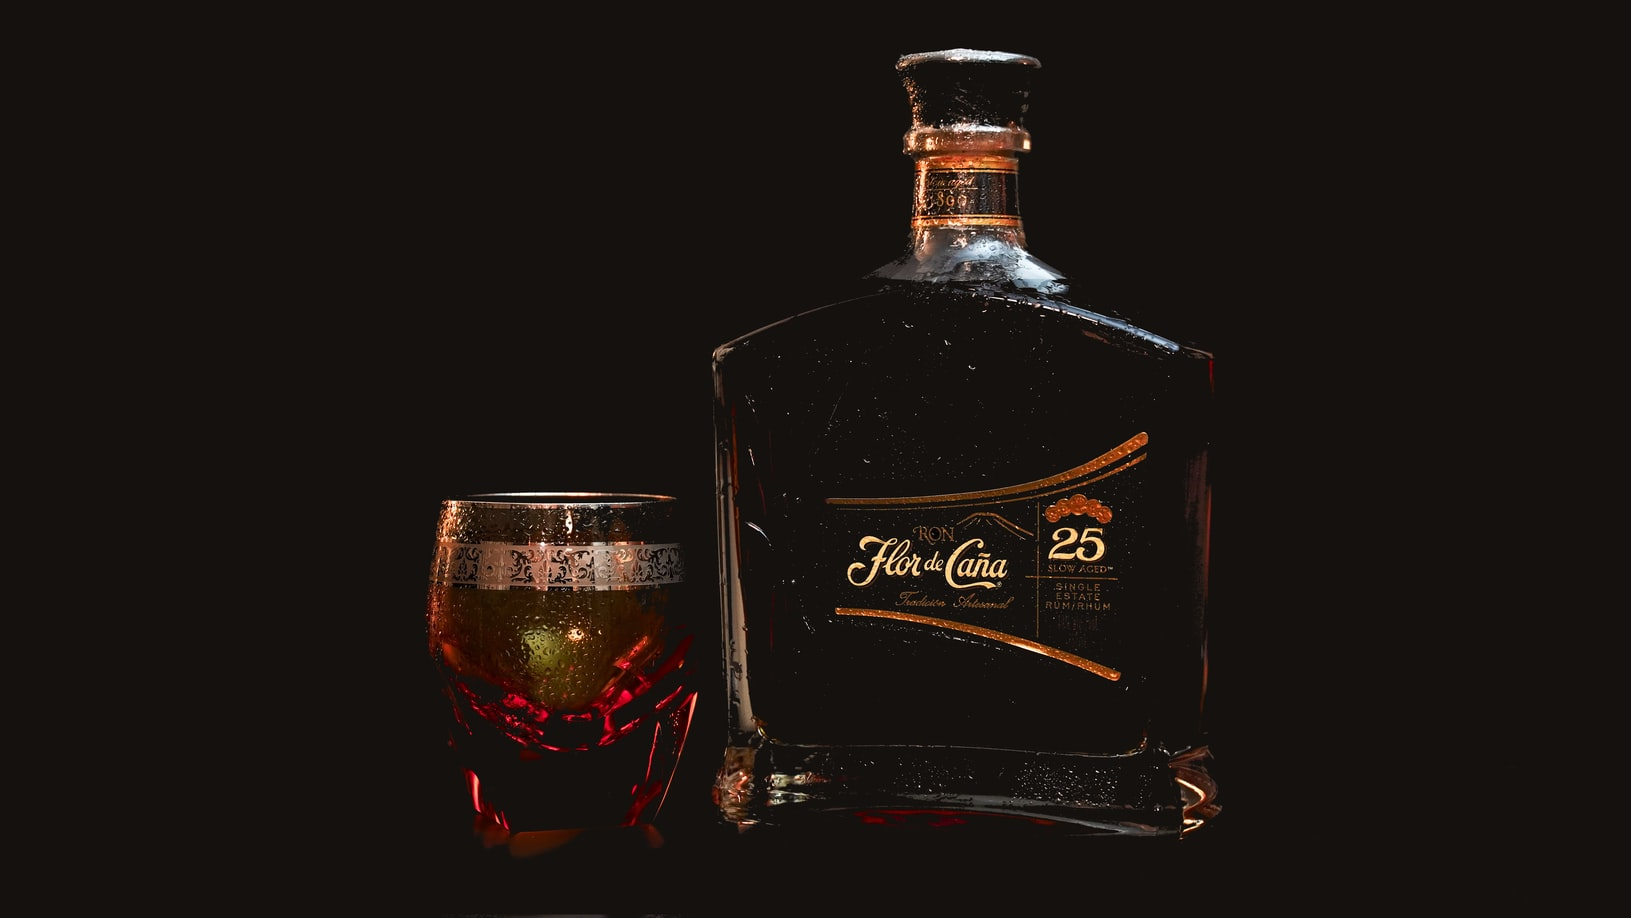
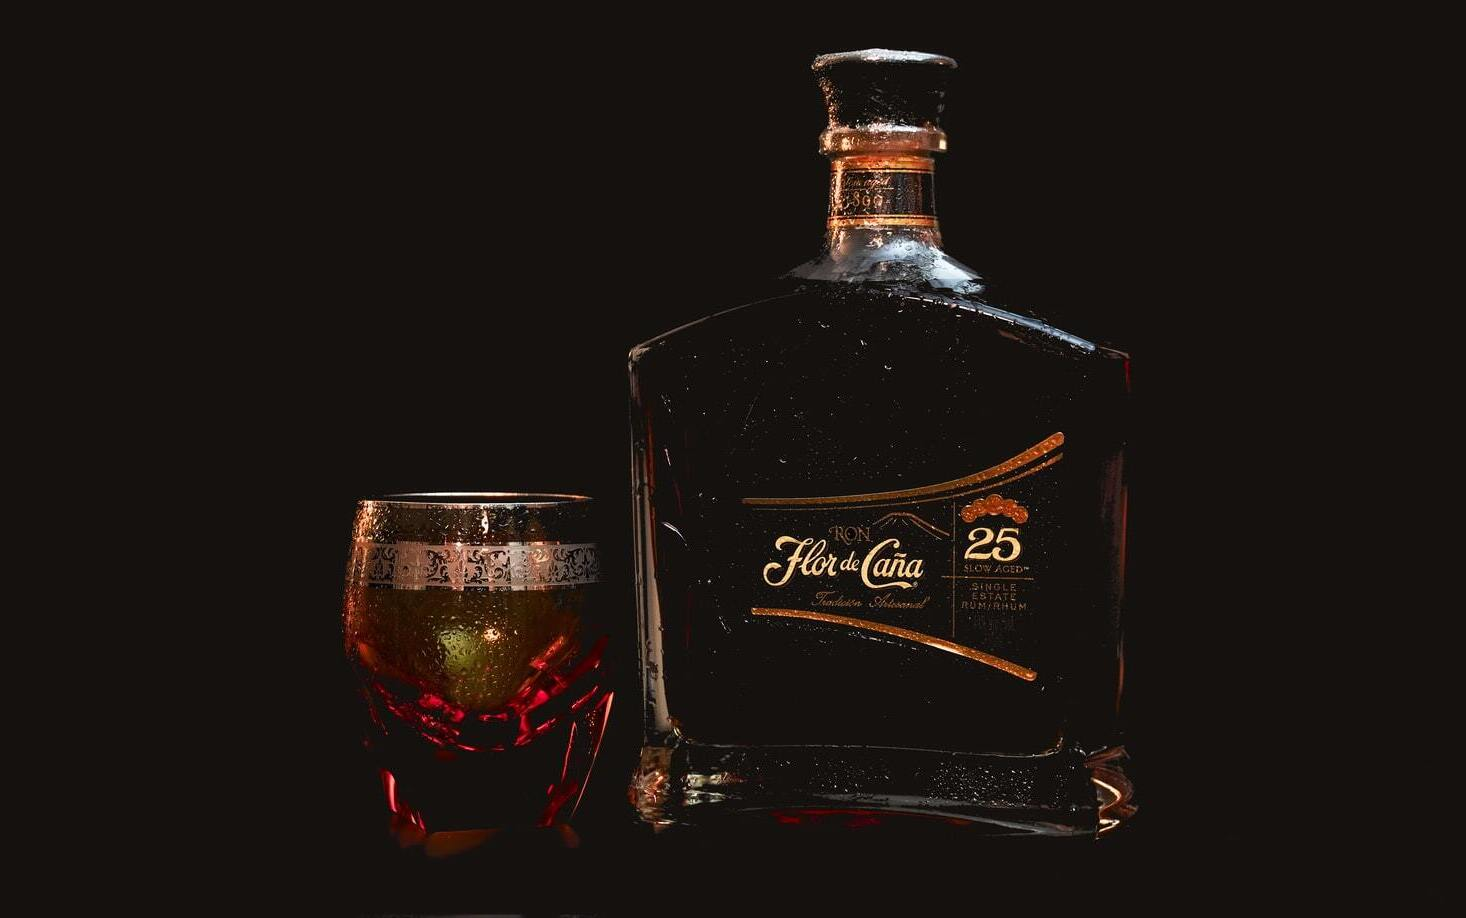
Cambios de mi carousel de mi seccion index

diff --git a/index.html b/index.html
@@ -42,8 +42,8 @@
             </div>
         </div>
     </div>
-    <div class="carousel slide" id="carousel-weston">
-        <div class="carousel-inner">
+    <div class="carousel slide container-fluid  fondoCarousel" id="carousel-weston">
+        <div class="carousel-inner container">
             <div class="carousel-item active">
                 <img class="d-block w-100 img-carousel" src="assets/carouse-1.jpg" alt="carousel">
                 <div class="carousel-caption d-none d-md-block carousel-weston-middle">
@@ -51,13 +51,13 @@
                 </div>
             </div>
             <div class="carousel-item ">
-                <img class="d-block w-100 img-carousel" src="assets/carousel-2.jpeg" alt="carousel2">
+                <img class="d-block w-100 img-carousel" src="assets/carouse2.jpg" alt="carousel2">
                 <div class="carousel-caption d-none d-md-block carousel-weston-middle">
                     <p class="h2 text-uppercase text-white">En el mundo pueden existir diferente tipo de cosas pero nada como la variedad de licores</p>
                 </div>
             </div>
             <div class="carousel-item ">
-                <img class="d-block w-100 img-carousel" src="assets/friends.jpg" alt="carousel3">
+                <img class="d-block w-100 img-carousel" src="assets/carouse3.jpg" alt="carousel3">
                 <div class="carousel-caption d-none d-md-block carousel-weston-middle">
                     <p class=" h2 text-uppercase text-white">La bebida sin los amigos, no es bebida</p>
                 </div>

diff --git a/css/estilos.css b/css/estilos.css
@@ -141,9 +141,29 @@ body {
 /*Carrousel*/
 
 .img-carousel {
-    height: 900px;
+    height: 100%;
 }
 
 .carousel-weston-middle {
     top: 40%
+}
+
+.fondoCarousel {
+    background: #360033;
+    background: -webkit-linear-gradient(150deg, #1c2122, #555155);
+    background: linear-gradient(150deg, #13191a, #555155);
+    background-size: 400% 300%;
+    animation: BgGradient 5s ease infinite
+}
+
+@keyframes BgGradient {
+    0% {
+        background-position: 0% 50%;
+    }
+    50% {
+        background-position: 100% 50%;
+    }
+    100% {
+        background-position: 0% 50%;
+    }
 }
